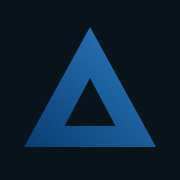
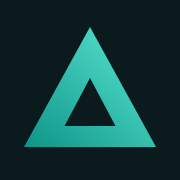
Pool: слева список, справа график пула (GeckoTerminal) и новости; ☆ в избранное; логотип снова бирюзовый
Claude-Session: https://claude.ai/code/session_01RxBADusk9LpfmG4t1RpzC8

Changed region(s): [[0.1389, 0.1389, 0.8611, 0.8333]]

diff --git a/app/page.js b/app/page.js
@@ -9,6 +9,7 @@ import TvChart from '../components/TvChart';
 import NewsFeed from '../components/NewsFeed';
 import Logo from '../components/Logo';
 import CoinIcon from '../components/CoinIcon';
+import PoolChart from '../components/PoolChart';
 
 export default function HomePage() {
   const [login, setLogin] = useState('');
@@ -268,6 +269,20 @@ export default function HomePage() {
   const chartPair = pairs.find(p => String(p.id) === chartPairId) || null;
   const chartSymbols = chartSymbolsFor(chartPair);
 
+  // график пула (вкладка Pool): выбранная строка, по умолчанию — первое избранное
+  const [chartPool, setChartPool] = useState(null);
+  useEffect(() => { try { const v = JSON.parse(localStorage.getItem('chartPool') || 'null'); if (v?.address) setChartPool(v); } catch {} }, []);
+  function selectPool(p) {
+    const v = { network: p.network, address: p.address, base: p.base, quote: p.quote, dex: p.dex, feePct: p.feePct ?? null, feeApprox: !!p.feeApprox, change24: p.change24 ?? null };
+    setChartPool(v);
+    try { localStorage.setItem('chartPool', JSON.stringify(v)); } catch {}
+    if (typeof window !== 'undefined' && window.innerWidth < 1300) {
+      setTimeout(() => document.querySelector('.side-chart')?.scrollIntoView({ behavior: 'smooth', block: 'start' }), 50);
+    }
+  }
+  const poolForChart = chartPool || (poolFavs[0] ? { ...poolFavs[0] } : null);
+  const isActivePool = (p) => !!poolForChart && poolForChart.network === p.network && poolForChart.address === p.address;
+
   const isAssets = tab === 'assets';
   const isPair = tab === 'pair';
   const isCommodities = tab === 'commodities';
@@ -308,7 +323,7 @@ export default function HomePage() {
   const curConfirmDelete = isPool ? confirmDeletePools : isAssets ? confirmDeleteAssets : (isCrypto ? confirmDeleteSelected : cConfirmDeleteSelected);
 
   return (
-    <div className={`app-shell${isCrypto ? ' tab-spot' : ''}`}>
+    <div className={`app-shell${isCrypto ? ' tab-spot' : ''}${isPool ? ' tab-pool' : ''}`}>
     <div className="page-wrap" style={{ maxWidth: 860, margin: '0 auto', padding: 16 }}>
       <div style={{ display: 'flex', justifyContent: 'space-between', alignItems: 'center', marginBottom: 12, flexWrap: 'wrap', gap: 8 }}>
         <span style={{ display: 'flex', alignItems: 'center', gap: 10 }}>
@@ -374,6 +389,8 @@ export default function HomePage() {
           favSet={new Set(poolFavs.map(f => `${f.network}:${f.address}`))}
           onAdded={loadPools}
           onActiveChange={setPoolSearching}
+          onSelectPool={selectPool}
+          isActivePool={isActivePool}
         />
       )}
       {isPool && !poolSearching && poolFavs.length > 0 && <div style={{ fontSize: 14, color: 'var(--text-dim)', margin: '4px 0 2px' }}>Избранное</div>}
@@ -384,7 +401,9 @@ export default function HomePage() {
           rows={poolFavs}
           showAge
           getKey={f => f.id}
-          onRowClick={f => window.open(`https://www.geckoterminal.com/${f.network}/pools/${f.address}`, '_blank', 'noopener,noreferrer')}
+          onSelect={selectPool}
+          isActive={isActivePool}
+          pairExtra={f => <a href={`https://www.geckoterminal.com/${f.network}/pools/${f.address}`} target="_blank" rel="noopener noreferrer" className="open-pair" title="Открыть на GeckoTerminal" aria-label="Открыть на GeckoTerminal">↗</a>}
           select={{ mode: poolSelectMode, selected: poolSelected, onToggle: f => togglePoolSelected(f.id) }}
         />
       )}
@@ -488,6 +507,7 @@ export default function HomePage() {
     </div>
     <aside className="side-panel">
       {isCrypto && <section className="side-chart"><TvChart symbols={chartSymbols} /></section>}
+      {isPool && <section className="side-chart"><PoolChart pool={poolForChart} /></section>}
       <section className="side-news"><div className="side-title">Новости</div><NewsFeed /></section>
     </aside>
     </div>

diff --git a/components/PoolTable.js b/components/PoolTable.js
@@ -11,8 +11,10 @@ import { fmtUsd, fmtPct, fmtFee, fmtApr, fmtAge } from '../lib/format';
 //   action(p)   — содержимое последней колонки (например «☆ добавить»), необязательно
 //   actionTitle — заголовок этой колонки
 //   showAge     — показывать возраст пула под парой
+//   onSelect(p) — клик по строке выбирает пул (например, для графика); isActive(p) — подсветить выбранную строку
+//   pairExtra(p) — маленький элемент справа от названия пары (☆ в избранное, ↗ открыть)
 //   isDisabled  — строка неактивна (например, уже в избранном); markDisabled — рисовать у такой пары галочку
-export default function PoolTable({ rows, getKey, onRowClick, select, action, actionTitle = '', showAge = false, isDisabled, markDisabled = false }) {
+export default function PoolTable({ rows, getKey, onRowClick, onSelect, isActive, pairExtra, select, action, actionTitle = '', showAge = false, isDisabled, markDisabled = false }) {
   const selectMode = !!select?.mode;
   return (
     <div className="pool-table-wrap">
@@ -40,15 +42,15 @@ export default function PoolTable({ rows, getKey, onRowClick, select, action, ac
             return (
               <tr
                 key={key}
-                className={`pt-row${isSel ? ' pt-selected' : ''}${disabled ? ' pt-disabled' : ''}`}
+                className={`pt-row${isSel ? ' pt-selected' : ''}${disabled ? ' pt-disabled' : ''}${!isSel && isActive && isActive(p) ? ' pt-active' : ''}`}
                 tabIndex={disabled && !selectMode ? -1 : 0}
                 aria-disabled={disabled || undefined}
                 aria-label={`${p.base}/${p.quote}, ${p.dex || ''}`}
-                onClick={() => (selectMode ? select.onToggle(p) : !disabled && onRowClick && onRowClick(p))}
+                onClick={() => (selectMode ? select.onToggle(p) : onSelect ? onSelect(p) : !disabled && onRowClick && onRowClick(p))}
                 onKeyDown={(e) => {
                   if (e.target !== e.currentTarget || (e.key !== 'Enter' && e.key !== ' ')) return;
                   e.preventDefault();
-                  if (selectMode) select.onToggle(p); else if (!disabled && onRowClick) onRowClick(p);
+                  if (selectMode) select.onToggle(p); else if (onSelect) onSelect(p); else if (!disabled && onRowClick) onRowClick(p);
                 }}
               >
                 {selectMode && (
@@ -60,6 +62,7 @@ export default function PoolTable({ rows, getKey, onRowClick, select, action, ac
                   <div className="pt-pair-name">
                     <span>{p.base}/{p.quote}{markDisabled && disabled && <span className="pt-mark" title="В избранном"> ✓</span>}</span>
                     {showAge && <span className="pt-age" title="Возраст пула">{fmtAge(p.createdAt)}</span>}
+                    {pairExtra && !selectMode && <span className="pt-extra" onClick={(e) => e.stopPropagation()} onKeyDown={(e) => e.stopPropagation()}>{pairExtra(p)}</span>}
                   </div>
                 </td>
                 <td className="pt-kind">

diff --git a/components/PoolSearch.js b/components/PoolSearch.js
@@ -24,7 +24,7 @@ const SORTS = [['tvl', 'TVL'], ['apr', 'APR'], ['vol24', 'Объём']];
 
 // favSet — множество "сеть:адрес" уже добавленных пулов; onAdded() — после успешного добавления;
 // onActiveChange(bool) — сообщает странице, что идёт поиск (чтобы спрятать избранное)
-export default function PoolSearch({ favSet, onAdded, onActiveChange }) {
+export default function PoolSearch({ favSet, onAdded, onActiveChange, onSelectPool, isActivePool }) {
   const [nets, setNets] = useState(['bsc']); // выбранные сети (можно несколько); при открытии — BNB Chain
   const [failed, setFailed] = useState([]);
   const [query, setQuery] = useState('');   // Актив 1
@@ -137,10 +137,12 @@ export default function PoolSearch({ favSet, onAdded, onActiveChange }) {
     setAddingKey(null);
     if (!r.ok && r.status !== 409) { setErr(d.error || 'Не удалось добавить'); return; }
     [t1, t2].filter(x => x && x.length < 30).reverse().forEach(rememberCoin);
-    setQuery('');
-    setQuery2('');
     onAdded && onAdded();
   }
+
+  const starFor = (p) => favSet.has(`${p.network}:${p.address}`)
+    ? <span className="pt-star on" title="В избранном" aria-label="В избранном">★</span>
+    : <button type="button" className="pt-star" title="Добавить в избранное" aria-label="Добавить в избранное" disabled={addingKey === p.address} onClick={() => add(p)}>☆</button>;
 
   const base = results.filter(p => (!hideSmall || (p.tvl || 0) >= MIN_TVL) && (!stableOnly || p.hasStable));
   const isDead = (p) => !(p.vol24 >= MIN_VOL);
@@ -236,9 +238,9 @@ export default function PoolSearch({ favSet, onAdded, onActiveChange }) {
             rows={defRows}
             getKey={p => `${p.network}:${p.address}`}
             showAge
-            onRowClick={add}
-            isDisabled={p => favSet.has(`${p.network}:${p.address}`) || addingKey === p.address}
-            markDisabled
+            onSelect={onSelectPool}
+            isActive={isActivePool}
+            pairExtra={starFor}
           />
         </>
       )}
@@ -261,9 +263,9 @@ export default function PoolSearch({ favSet, onAdded, onActiveChange }) {
           rows={shown}
           getKey={p => `${p.network}:${p.address}`}
           showAge
-          onRowClick={add}
-          isDisabled={p => favSet.has(`${p.network}:${p.address}`) || addingKey === p.address}
-          markDisabled
+          onSelect={onSelectPool}
+          isActive={isActivePool}
+          pairExtra={starFor}
         />
       )}
     </div>

diff --git a/components/PoolChart.js b/components/PoolChart.js
@@ -1,0 +1,33 @@
+'use client';
+import { useEffect, useState } from 'react';
+import NetworkBadge from './NetworkBadge';
+import { fmtFee, fmtPct } from '../lib/format';
+
+// График выбранного пула — официальный встраиваемый график GeckoTerminal (загружается в браузере, без ключей)
+export default function PoolChart({ pool }) {
+  const [light, setLight] = useState(false);
+  useEffect(() => {
+    const read = () => setLight(document.documentElement.getAttribute('data-theme') === 'light');
+    read();
+    const mo = new MutationObserver(read);
+    mo.observe(document.documentElement, { attributes: true, attributeFilter: ['data-theme'] });
+    return () => mo.disconnect();
+  }, []);
+
+  if (!pool) {
+    return <div className="pool-chart pool-chart-empty">Выберите пул в списке, чтобы увидеть график</div>;
+  }
+  const src = `https://www.geckoterminal.com/${pool.network}/pools/${pool.address}?embed=1&info=0&swaps=0&grayscale=0&light_chart=${light ? 1 : 0}&chart_type=price&resolution=15m`;
+  const ch = pool.change24;
+  return (
+    <div className="pool-chart">
+      <div className="pool-chart-head">
+        <NetworkBadge network={pool.network} />
+        <span className="pool-chart-name">{pool.base}/{pool.quote}</span>
+        <span className="pool-chart-sub">{[pool.feePct != null ? fmtFee(pool.feePct, pool.feeApprox) : null, pool.dex].filter(Boolean).join(' ')}</span>
+        {ch != null && <span className="pool-chart-chg" style={{ color: ch >= 0 ? 'var(--up)' : 'var(--down)' }}>{fmtPct(ch)}</span>}
+      </div>
+      <iframe key={`${pool.network}:${pool.address}:${light}`} title={`${pool.base}/${pool.quote}`} src={src} className="pool-chart-frame" loading="lazy" allow="clipboard-write" />
+    </div>
+  );
+}

diff --git a/app/globals.css b/app/globals.css
@@ -387,3 +387,25 @@ input, select, textarea, button { font-family: inherit; font-size: 16px; }
   .tab-spot .pair-row .cell-ratio { font-size: 14px; }
   .tab-spot .pair-row .cell-exchange { font-size: 12px !important; }
 }
+
+/* Pool: слева список, справа график пула и новости */
+@media (min-width: 1300px) {
+  .app-shell.tab-pool { grid-template-columns: minmax(820px, 1fr) minmax(0, 1fr); }
+  .app-shell.tab-pool .page-wrap { max-width: none !important; }
+}
+.pool-table .pt-row.pt-active td { background: var(--accent-soft); }
+.pt-extra { display: inline-flex; align-items: center; margin-left: 4px; }
+.pt-star { background: none; border: none; padding: 0 5px; color: var(--text-dim); font-size: 17px; line-height: 1; cursor: pointer; }
+.pt-star:hover { color: var(--accent-text); }
+.pt-star.on { color: var(--accent-text); cursor: default; }
+.pool-chart { display: flex; flex-direction: column; width: 100%; }
+.pool-chart-empty { min-height: 200px; align-items: center; justify-content: center; color: var(--text-dim); font-size: 15px; padding: 24px; text-align: center; }
+.pool-chart-head { display: flex; align-items: center; gap: 8px; padding: 10px 14px; border-bottom: 1px solid var(--card-border); flex-wrap: wrap; }
+.pool-chart-name { font-weight: 600; font-size: 16px; }
+.pool-chart-sub { color: var(--text-dim); font-size: 13px; }
+.pool-chart-chg { margin-left: auto; font-weight: 600; font-size: 14px; }
+.pool-chart-frame { width: 100%; height: 440px; border: 0; background: var(--bg); }
+@media (min-width: 1300px) {
+  .side-chart > .pool-chart { flex: 1; min-height: 0; }
+  .pool-chart-frame { flex: 1; height: auto; min-height: 0; }
+}

diff --git a/components/Logo.js b/components/Logo.js
@@ -4,11 +4,11 @@ export default function Logo({ size = 28 }) {
     <svg width={size} height={size} viewBox="0 0 120 120" role="img" aria-label="Alt Tracker" style={{ flex: 'none', display: 'block' }}>
       <defs>
         <linearGradient id="logo-g" x1="0" y1="1" x2="1" y2="0">
-          <stop offset="0" stopColor="#0a3d73" />
-          <stop offset="1" stopColor="#2a7fc4" />
+          <stop offset="0" stopColor="#0d9488" />
+          <stop offset="1" stopColor="#5eead4" />
         </linearGradient>
       </defs>
-      <rect width="120" height="120" rx="26" fill="#08141a" stroke="#17302f" strokeWidth="2" />
+      <rect width="120" height="120" rx="26" fill="#0b1a1d" stroke="#17302f" strokeWidth="2" />
       <path fillRule="evenodd" fill="url(#logo-g)" d="M60 18 L104 98 H16 Z M60 52 L77 84 H43 Z" />
     </svg>
   );
